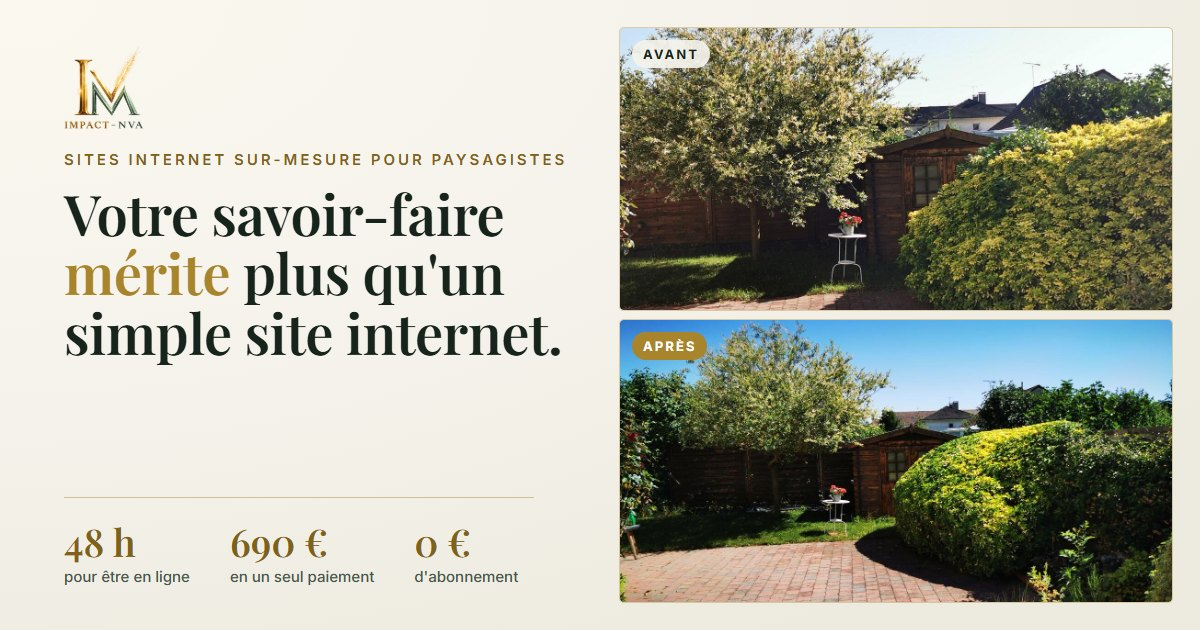
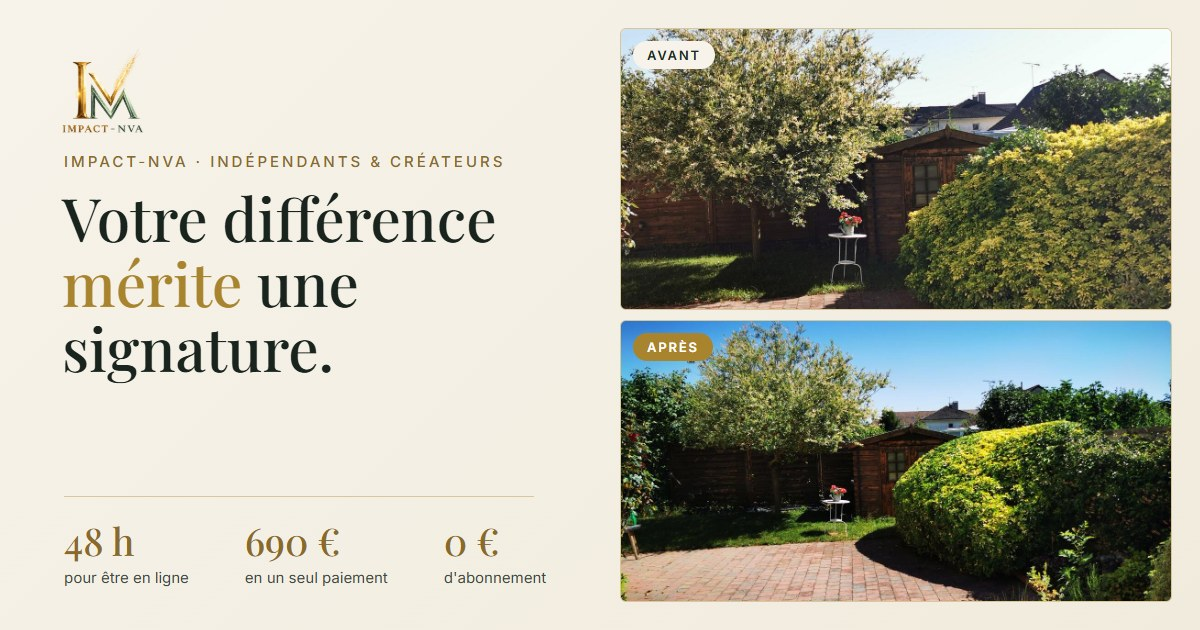
ADN Impact-NVA : titre « Votre différence mérite une signature » et oranger du Mexique
- Titre, description, aperçus de partage et données Google : plus « pour paysagistes »,
  mais « indépendants & créateurs » et la bannière validée.
- Champ « Votre activité » libre à la place de la liste de métiers du végétal.
- Avant/après et galerie : l'arbuste de la terrasse est un oranger du Mexique, pas une haie.
- Nouvelle image de partage avec le nouveau titre.

diff --git a/index.html b/index.html
@@ -11,26 +11,26 @@
     gtag('config', 'G-78S79Q7FZH');
   </script>
   <meta name="viewport" content="width=device-width, initial-scale=1.0">
-  <title>Impact-NVA — Sites internet sur-mesure pour paysagistes, en ligne sous 48 h</title>
-  <meta name="description" content="Impact-NVA crée des sites internet sur-mesure pour paysagistes, élagueurs et entreprises d'espaces verts. Votre site en ligne 48 h après réception de vos éléments. 690 €, en un seul paiement, sans abonnement — le site vous appartient.">
+  <title>Impact-NVA — Votre différence mérite une signature</title>
+  <meta name="description" content="Impact-NVA met votre différence en ligne : un site sur-mesure pour les indépendants et les créateurs. Votre site en ligne 48 h après réception de vos éléments. 690 €, en un seul paiement, sans abonnement — le site vous appartient.">
   <link rel="canonical" href="https://prestige.impact-nva.fr/">
   <meta name="theme-color" content="#0A0F0C">
 
   <meta property="og:type" content="website">
   <meta property="og:site_name" content="Impact-NVA">
   <meta property="og:locale" content="fr_FR">
-  <meta property="og:title" content="Impact-NVA — Sites internet sur-mesure pour paysagistes">
-  <meta property="og:description" content="Votre savoir-faire mérite plus qu'un simple site internet. En ligne 48 h après réception de vos éléments.">
+  <meta property="og:title" content="Impact-NVA — Votre différence mérite une signature">
+  <meta property="og:description" content="Chacun sa signature. Révélez la vôtre. Un site sur-mesure, en ligne 48 h après réception de vos éléments.">
   <meta property="og:url" content="https://prestige.impact-nva.fr/">
   <meta property="og:image" content="https://prestige.impact-nva.fr/og-prestige.jpg">
   <meta property="og:image:width" content="1200">
   <meta property="og:image:height" content="630">
-  <meta property="og:image:alt" content="Impact-NVA Prestige : « Votre savoir-faire mérite plus qu'un simple site internet », 48 h, 690 €, 0 € d'abonnement, avec une terrasse avant et après">
+  <meta property="og:image:alt" content="Impact-NVA Prestige : « Votre différence mérite une signature », 48 h, 690 €, 0 € d'abonnement, avec une terrasse avant et après">
   <meta name="twitter:card" content="summary_large_image">
-  <meta name="twitter:title" content="Impact-NVA — Sites internet sur-mesure pour paysagistes">
-  <meta name="twitter:description" content="Votre savoir-faire mérite plus qu'un simple site internet. En ligne 48 h après réception de vos éléments.">
+  <meta name="twitter:title" content="Impact-NVA — Votre différence mérite une signature">
+  <meta name="twitter:description" content="Chacun sa signature. Révélez la vôtre. Un site sur-mesure, en ligne 48 h après réception de vos éléments.">
   <meta name="twitter:image" content="https://prestige.impact-nva.fr/og-prestige.jpg">
-  <meta name="twitter:image:alt" content="Impact-NVA Prestige : « Votre savoir-faire mérite plus qu'un simple site internet », 48 h, 690 €, 0 € d'abonnement, avec une terrasse avant et après">
+  <meta name="twitter:image:alt" content="Impact-NVA Prestige : « Votre différence mérite une signature », 48 h, 690 €, 0 € d'abonnement, avec une terrasse avant et après">
 
   <link rel="icon" type="image/png" sizes="192x192" href="assets/icons/icone-192.png">
   <link rel="icon" type="image/png" sizes="32x32" href="assets/icons/favicon-32.png">
@@ -58,7 +58,7 @@
     "name": "Impact-NVA",
     "url": "https://prestige.impact-nva.fr/",
     "logo": "https://prestige.impact-nva.fr/assets/images/logo-impact.png",
-    "description": "Création de sites internet sur-mesure pour paysagistes, élagueurs et entreprises d'espaces verts. Site en ligne 48 h après réception des éléments.",
+    "description": "Création de sites internet sur-mesure pour les indépendants et les créateurs. Site en ligne 48 h après réception des éléments.",
     "email": "contact@impact-nva.fr",
     "areaServed": "FR",
     "priceRange": "390€-1290€"
@@ -142,8 +142,8 @@
     <div class="hero-glow" aria-hidden="true"></div>
     <div class="container hero-grid">
       <div class="hero-copy">
-        <p class="hero-kicker">Sites internet sur-mesure pour paysagistes</p>
-        <h1 class="hero-title">Votre savoir-faire <span class="hero-accent">mérite</span> plus qu'un simple site internet.</h1>
+        <p class="hero-kicker">Impact-NVA · indépendants &amp; créateurs</p>
+        <h1 class="hero-title">Votre différence <span class="hero-accent">mérite</span> une signature.</h1>
         <p class="hero-subtitle">Nous créons des sites qui montrent la qualité de votre travail et donnent envie de vous appeler. En ligne 48&nbsp;h après réception de vos éléments.</p>
         <div class="hero-actions">
           <a class="cta-button" href="#contact">Demander mon site</a>
@@ -197,8 +197,8 @@
   <!-- ============ PROBLÈME → PROMESSE ============ -->
   <section class="section section-pitch">
     <div class="container narrow reveal">
-      <h2 class="section-title">Vos chantiers parlent pour vous.<br>Votre site, lui, vous dessert peut-être.</h2>
-      <p class="section-lead">Aujourd'hui, un futur client vous cherche sur Google avant de vous appeler. S'il tombe sur un site vieillissant, ou sur rien du tout, il passe au paysagiste suivant. Pas parce que vous travaillez mal&nbsp;: parce qu'il ne peut pas le voir.</p>
+      <h2 class="section-title">Vos réalisations parlent pour vous.<br>Votre site, lui, vous dessert peut-être.</h2>
+      <p class="section-lead">Aujourd'hui, un futur client vous cherche sur Google avant de vous appeler. S'il tombe sur un site vieillissant, ou sur rien du tout, il passe au suivant. Pas parce que vous travaillez mal&nbsp;: parce qu'il ne peut pas le voir.</p>
       <p class="section-lead strong">Voici ce que ça change, concrètement.</p>
     </div>
   </section>
@@ -219,14 +219,14 @@
               <img loading="lazy" src="assets/images/avant-terrasse.jpg" width="1200" height="801" alt="Terrasse et haie avant l'intervention : végétation dense et peu structurée">
             </div>
             <div class="ba-new">
-              <img loading="lazy" src="assets/images/realisation-terrasse-haie.jpg" width="1200" height="801" alt="La même terrasse après : haie sculptée et espace net et structuré">
+              <img loading="lazy" src="assets/images/realisation-terrasse-haie.jpg" width="1200" height="801" alt="La même terrasse après : oranger du Mexique taillé, espace net et structuré">
             </div>
             <span class="ba-label ba-label-old" aria-hidden="true">Avant</span>
             <span class="ba-label ba-label-new" aria-hidden="true">Après</span>
             <div class="ba-handle" aria-hidden="true"><span class="ba-handle-grip"></span></div>
             <input type="range" class="ba-range" min="0" max="100" value="50" step="0.1" aria-label="Comparer l'avant et l'après de la terrasse et de la haie">
           </div>
-          <figcaption>Terrasse &amp; haie — d'un espace touffu à une ligne nette et maîtrisée.</figcaption>
+          <figcaption>Terrasse &amp; oranger du Mexique — d'un espace touffu à une ligne nette et maîtrisée.</figcaption>
         </figure>
 
         <figure class="ba-card">
@@ -297,8 +297,8 @@
           <figcaption>Massif fleuri</figcaption>
         </figure>
         <figure class="g-item g-wide">
-          <img loading="lazy" src="assets/images/realisation-terrasse-haie.jpg" width="1200" height="900" alt="Terrasse bordée d'une haie parfaitement structurée">
-          <figcaption>Terrasse &amp; haie structurée</figcaption>
+          <img loading="lazy" src="assets/images/realisation-terrasse-haie.jpg" width="1200" height="900" alt="Terrasse et oranger du Mexique taillé">
+          <figcaption>Terrasse &amp; oranger du Mexique taillé</figcaption>
         </figure>
       </div>
 
@@ -498,18 +498,11 @@
           <p class="hp-field" aria-hidden="true"><label>Ne pas remplir <input type="text" name="site_web" tabindex="-1" autocomplete="off"></label></p>
           <div class="form-row">
             <label for="f-entreprise">Votre entreprise <span class="req" aria-hidden="true">*</span></label>
-            <input id="f-entreprise" name="entreprise" type="text" required autocomplete="organization" placeholder="Ex. : Martin Paysage">
+            <input id="f-entreprise" name="entreprise" type="text" required autocomplete="organization" placeholder="Ex. : Atelier Martin">
           </div>
           <div class="form-row">
-            <label for="f-metier">Votre métier</label>
-            <select id="f-metier" name="domaine">
-              <option value="">Choisir…</option>
-              <option>Paysagiste</option>
-              <option>Élagueur</option>
-              <option>Entretien d'espaces verts</option>
-              <option>Jardinier</option>
-              <option>Autre métier</option>
-            </select>
+            <label for="f-metier">Votre activité</label>
+            <input id="f-metier" name="domaine" type="text" autocomplete="organization-title" placeholder="Paysagiste, couturière, créateur…">
           </div>
           <div class="form-duo">
             <div class="form-row">
@@ -543,7 +536,7 @@
   <div class="container footer-grid">
     <div class="footer-brand">
       <img src="assets/images/logo-impact.png" alt="Impact-NVA" width="110" height="120" loading="lazy">
-      <p>Des sites internet haut de gamme pour les paysagistes et les métiers du végétal.</p>
+      <p>On ne vend pas des sites. On met votre différence en ligne, et elle vous appartient.</p>
     </div>
     <nav class="footer-nav" aria-label="Navigation de bas de page">
       <p class="footer-title">Explorer</p>
